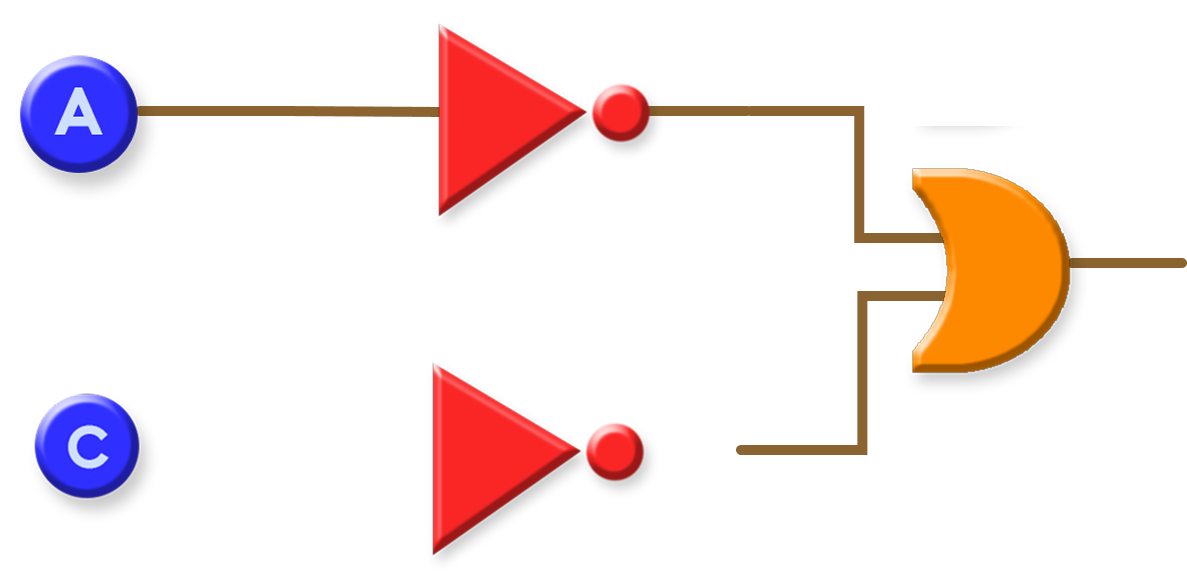
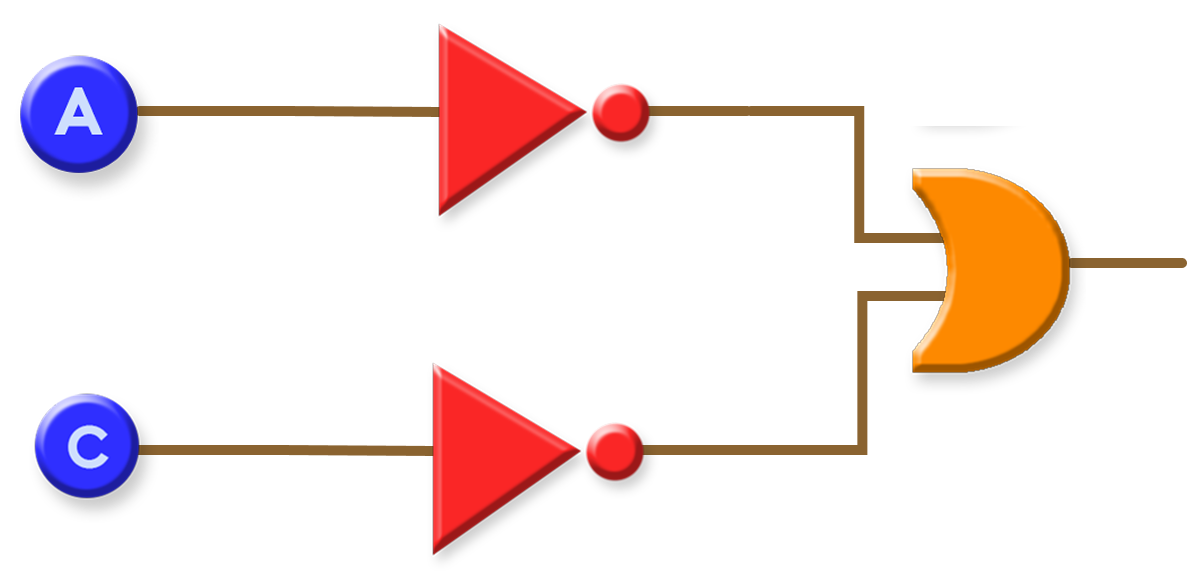
fixed issues with some questions

Changed region(s): [[0.1247, 0.741, 0.3741, 0.8027], [0.5299, 0.741, 0.6234, 0.8027]]

diff --git a/lib/features/play/data/repositories/gatekeeping_question_repository.dart b/lib/features/play/data/repositories/gatekeeping_question_repository.dart
@@ -168,70 +168,70 @@ class GatekeepingQuestionRepository {
     GatekeepingQuestion(
       id: 'basic_21',
       imagePath: _diagramPath(GatekeepingDifficulty.basic, 'basic_21.png'),
-      expression: 'A __AND B __NOT',
-      answers: ['AND', 'NOT'],
+      expression: '__NOT(A __AND B)',
+      answers: ['NOT', 'AND'],
       difficulty: GatekeepingDifficulty.basic,
     ),
     GatekeepingQuestion(
       id: 'basic_22',
       imagePath: _diagramPath(GatekeepingDifficulty.basic, 'basic_22.png'),
-      expression: 'A __OR B __NOT',
-      answers: ['OR', 'NOT'],
+      expression: '__NOT(A __OR B)',
+      answers: ['NOT', 'OR'],
       difficulty: GatekeepingDifficulty.basic,
     ),
     GatekeepingQuestion(
       id: 'basic_23',
       imagePath: _diagramPath(GatekeepingDifficulty.basic, 'basic_23.png'),
-      expression: 'B __AND C __NOT',
-      answers: ['AND', 'NOT'],
+      expression: '__NOT(B __AND C)',
+      answers: ['NOT', 'AND'],
       difficulty: GatekeepingDifficulty.basic,
     ),
     GatekeepingQuestion(
       id: 'basic_24',
       imagePath: _diagramPath(GatekeepingDifficulty.basic, 'basic_24.png'),
-      expression: 'B __OR C __NOT',
-      answers: ['OR', 'NOT'],
+      expression: '__NOT(B __OR C)',
+      answers: ['NOT', 'OR'],
       difficulty: GatekeepingDifficulty.basic,
     ),
     GatekeepingQuestion(
       id: 'basic_25',
       imagePath: _diagramPath(GatekeepingDifficulty.basic, 'basic_25.png'),
-      expression: 'A __AND C __NOT',
-      answers: ['AND', 'NOT'],
+      expression: '__NOT(A __AND C)',
+      answers: ['NOT', 'AND'],
       difficulty: GatekeepingDifficulty.basic,
     ),
     GatekeepingQuestion(
       id: 'basic_26',
       imagePath: _diagramPath(GatekeepingDifficulty.basic, 'basic_26.png'),
-      expression: 'A __OR C __NOT',
-      answers: ['OR', 'NOT'],
+      expression: '__NOT(A __OR C)',
+      answers: ['NOT', 'OR'],
       difficulty: GatekeepingDifficulty.basic,
     ),
     GatekeepingQuestion(
       id: 'basic_27',
       imagePath: _diagramPath(GatekeepingDifficulty.basic, 'basic_27.png'),
-      expression: '__NOT A __AND B __NOT',
-      answers: ['NOT', 'AND', 'NOT'],
+      expression: '__NOT(__NOT A __AND B)',
+      answers: ['NOT', 'NOT', 'AND'],
       difficulty: GatekeepingDifficulty.basic,
     ),
     GatekeepingQuestion(
       id: 'basic_28',
       imagePath: _diagramPath(GatekeepingDifficulty.basic, 'basic_28.png'),
-      expression: '__NOT C',
+      expression: '__NOT A',
       answers: ['NOT'],
       difficulty: GatekeepingDifficulty.basic,
     ),
     GatekeepingQuestion(
       id: 'basic_29',
       imagePath: _diagramPath(GatekeepingDifficulty.basic, 'basic_29.png'),
-      expression: '__NOT A',
+      expression: '__NOT B',
       answers: ['NOT'],
       difficulty: GatekeepingDifficulty.basic,
     ),
     GatekeepingQuestion(
       id: 'basic_30',
       imagePath: _diagramPath(GatekeepingDifficulty.basic, 'basic_30.png'),
-      expression: '__NOT B',
+      expression: '__NOT C',
       answers: ['NOT'],
       difficulty: GatekeepingDifficulty.basic,
     ),
@@ -455,7 +455,7 @@ class GatekeepingQuestionRepository {
     GatekeepingQuestion(
       id: 'manic_1',
       imagePath: _diagramPath(GatekeepingDifficulty.manic, 'manic_1.png'),
-      expression: 'NOT(A) __AND NOT(B)',
+      expression: '¬A __AND ¬B',
       answers: ['AND'],
       difficulty: GatekeepingDifficulty.manic,
     ),
@@ -469,7 +469,7 @@ class GatekeepingQuestionRepository {
     GatekeepingQuestion(
       id: 'manic_3',
       imagePath: _diagramPath(GatekeepingDifficulty.manic, 'manic_3.png'),
-      expression: '(NOT(A) __AND NOT(B)) __AND (NOT(A) __OR NOT(C))',
+      expression: '(¬A __AND ¬B) __AND (¬A __OR ¬C)',
       answers: ['AND', 'AND', 'OR'],
       difficulty: GatekeepingDifficulty.manic,
     ),
@@ -483,14 +483,14 @@ class GatekeepingQuestionRepository {
     GatekeepingQuestion(
       id: 'manic_5',
       imagePath: _diagramPath(GatekeepingDifficulty.manic, 'manic_5.png'),
-      expression: '(NOT(A) __OR NOT(B)) __XOR C',
+      expression: '(¬A __OR ¬B) __XOR C',
       answers: ['OR', 'XOR'],
       difficulty: GatekeepingDifficulty.manic,
     ),
     GatekeepingQuestion(
       id: 'manic_6',
       imagePath: _diagramPath(GatekeepingDifficulty.manic, 'manic_6.png'),
-      expression: '(NOT(A) __OR NOT(B)) __AND (NOT(B) __OR NOT(C)) __AND A',
+      expression: '(¬A __OR ¬B) __AND (¬B __OR ¬C) __AND A',
       answers: ['OR', 'AND', 'OR', 'AND'],
       difficulty: GatekeepingDifficulty.manic,
     ),
@@ -504,14 +504,14 @@ class GatekeepingQuestionRepository {
     GatekeepingQuestion(
       id: 'manic_8',
       imagePath: _diagramPath(GatekeepingDifficulty.manic, 'manic_8.png'),
-      expression: '(NOT(A) __AND NOT(B)) __AND (NOT(C) __OR NOT(D))',
+      expression: '(¬A __AND ¬B) __AND (¬C __OR ¬D)',
       answers: ['AND', 'AND', 'OR'],
       difficulty: GatekeepingDifficulty.manic,
     ),
     GatekeepingQuestion(
       id: 'manic_9',
       imagePath: _diagramPath(GatekeepingDifficulty.manic, 'manic_9.png'),
-      expression: '(NOT(A) __AND NOT(B)) __OR C',
+      expression: '(¬A __AND ¬B) __OR C',
       answers: ['AND', 'OR'],
       difficulty: GatekeepingDifficulty.manic,
     ),
@@ -525,35 +525,35 @@ class GatekeepingQuestionRepository {
     GatekeepingQuestion(
       id: 'manic_11',
       imagePath: _diagramPath(GatekeepingDifficulty.manic, 'manic_11.png'),
-      expression: '(NOT(A) __AND NOT(B)) __XOR (A __XNOR C)',
+      expression: '(¬A __AND ¬B) __XOR (A __XNOR C)',
       answers: ['AND', 'XOR', 'XNOR'],
       difficulty: GatekeepingDifficulty.manic,
     ),
     GatekeepingQuestion(
       id: 'manic_12',
       imagePath: _diagramPath(GatekeepingDifficulty.manic, 'manic_12.png'),
-      expression: 'C __XOR (NOT(A) __AND NOT(B))',
+      expression: 'C __XOR (¬A __AND ¬B)',
       answers: ['XOR', 'AND'],
       difficulty: GatekeepingDifficulty.manic,
     ),
     GatekeepingQuestion(
       id: 'manic_13',
       imagePath: _diagramPath(GatekeepingDifficulty.manic, 'manic_13.png'),
-      expression: 'NOT(A) __OR NOT(B)',
+      expression: '¬A __OR ¬B',
       answers: ['OR'],
       difficulty: GatekeepingDifficulty.manic,
     ),
     GatekeepingQuestion(
       id: 'manic_14',
       imagePath: _diagramPath(GatekeepingDifficulty.manic, 'manic_14.png'),
-      expression: '(NOT(A) __OR NOT(B)) __AND NOT(C)',
+      expression: '(¬A __OR ¬B) __AND ¬C',
       answers: ['OR', 'AND'],
       difficulty: GatekeepingDifficulty.manic,
     ),
     GatekeepingQuestion(
       id: 'manic_15',
       imagePath: _diagramPath(GatekeepingDifficulty.manic, 'manic_15.png'),
-      expression: '(NOT(A) __OR NOT(B)) __XOR (NOT(B) __AND NOT(C) __AND A)',
+      expression: '(¬A __OR ¬B) __XOR (¬B __AND ¬C __AND A)',
       answers: ['OR', 'XOR', 'AND', 'AND'],
       difficulty: GatekeepingDifficulty.manic,
     ),

diff --git a/lib/features/play/presentation/pages/gatekeeping_game_page.dart b/lib/features/play/presentation/pages/gatekeeping_game_page.dart
@@ -148,7 +148,7 @@ class _GatekeepingGamePageState extends State<GatekeepingGamePage> {
   }
 
   List<_ExpressionPart> _parseExpression(String expression) {
-    final regex = RegExp(r'__(AND|OR|NOT|XOR)');
+    final regex = RegExp(r'__(AND|OR|NOT|XOR|XNOR|NAND|NOR)');
     final parts = <_ExpressionPart>[];
 
     int lastEnd = 0;
@@ -264,6 +264,7 @@ class _GatekeepingGamePageState extends State<GatekeepingGamePage> {
     await _finishRound(
       scoreDelta: -10,
       timeDelta: 0,
+      advanceQuestion: true
     );
   }
 
@@ -304,6 +305,7 @@ class _GatekeepingGamePageState extends State<GatekeepingGamePage> {
       await _finishRound(
         scoreDelta: gainedScore,
         timeDelta: gainedTime,
+        advanceQuestion: true
       );
     } else {
       const lostScore = 20;
@@ -315,6 +317,7 @@ class _GatekeepingGamePageState extends State<GatekeepingGamePage> {
       await _finishRound(
         scoreDelta: -lostScore,
         timeDelta: lostTime,
+        advanceQuestion: false
       );
     }
   }
@@ -322,6 +325,7 @@ class _GatekeepingGamePageState extends State<GatekeepingGamePage> {
   Future<void> _finishRound({
     required int scoreDelta,
     required int timeDelta,
+    required bool advanceQuestion
   }) async {
     setState(() {
       _roundLocked = true;
@@ -331,7 +335,7 @@ class _GatekeepingGamePageState extends State<GatekeepingGamePage> {
 
     await Future.delayed(const Duration(milliseconds: 850));
 
-    if (_currentQuestionIndex >= _questions.length - 1) {
+    if (_currentQuestionIndex >= _questions.length - 1 && advanceQuestion) {
       await _submitFinalScoreOnce();
       _showEndDialog();
       return;
@@ -346,7 +350,15 @@ class _GatekeepingGamePageState extends State<GatekeepingGamePage> {
 
 
 
-    _advanceToNextQuestion();
+    if (advanceQuestion) {
+      _advanceToNextQuestion();
+    } else {
+      setState(() {
+        _playerAnswers = List<String?>.filled(_playerAnswers.length, null);
+        _activeSlotIndex = 0;
+        _roundLocked = false;
+      });
+    }
   }
 
   Future<void> _playFlash({bool isCorrect = false}) async {
@@ -600,12 +612,10 @@ class _GatekeepingGamePageState extends State<GatekeepingGamePage> {
 
     for (final part in _parsedExpression) {
       if (!part.isSlot) {
-        final text = part.text?.trim();
-        if (text != null && text.isNotEmpty) {
-          children.add(
-            Padding(
-              padding: const EdgeInsets.symmetric(horizontal: 4),
-              child: Text(
+        final text = part.text;
+          if (text != null && text.isNotEmpty) {
+            children.add(
+              Text(
                 text,
                 style: const TextStyle(
                   fontSize: 26,
@@ -613,7 +623,6 @@ class _GatekeepingGamePageState extends State<GatekeepingGamePage> {
                   color: Colors.white,
                 ),
               ),
-            ),
           );
         }
         continue;
